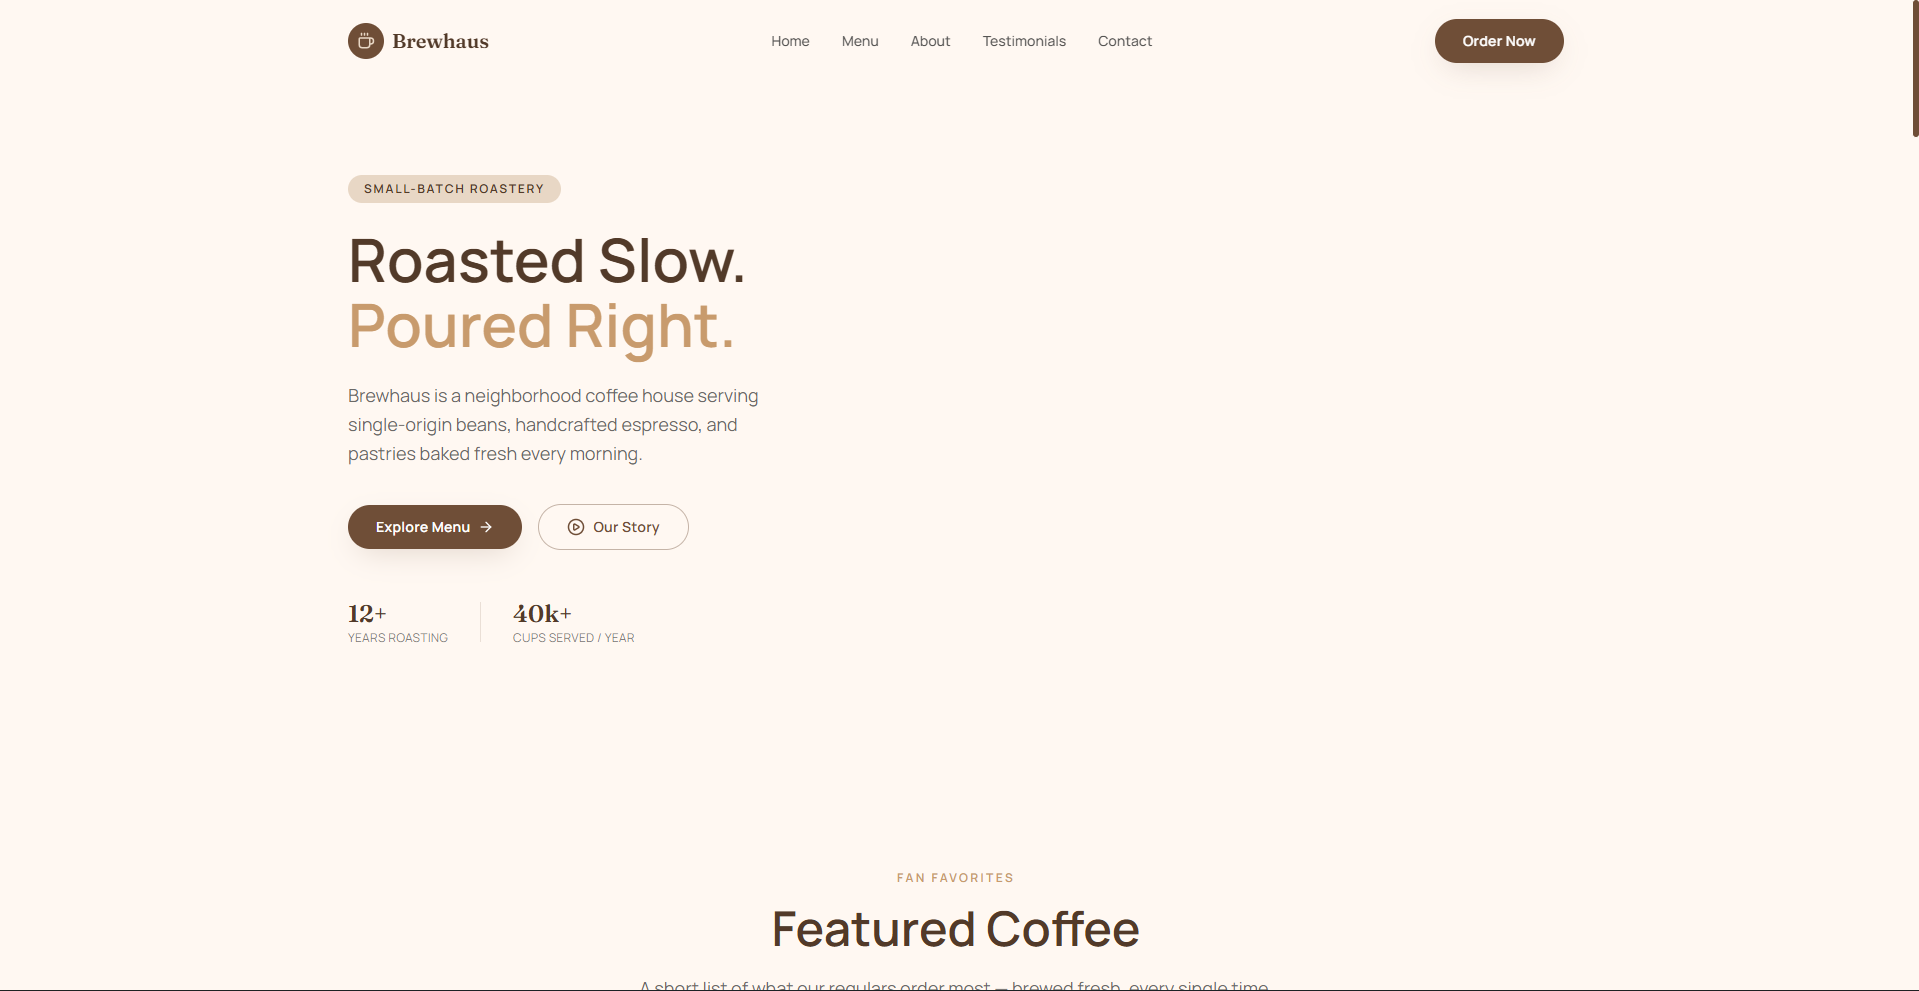
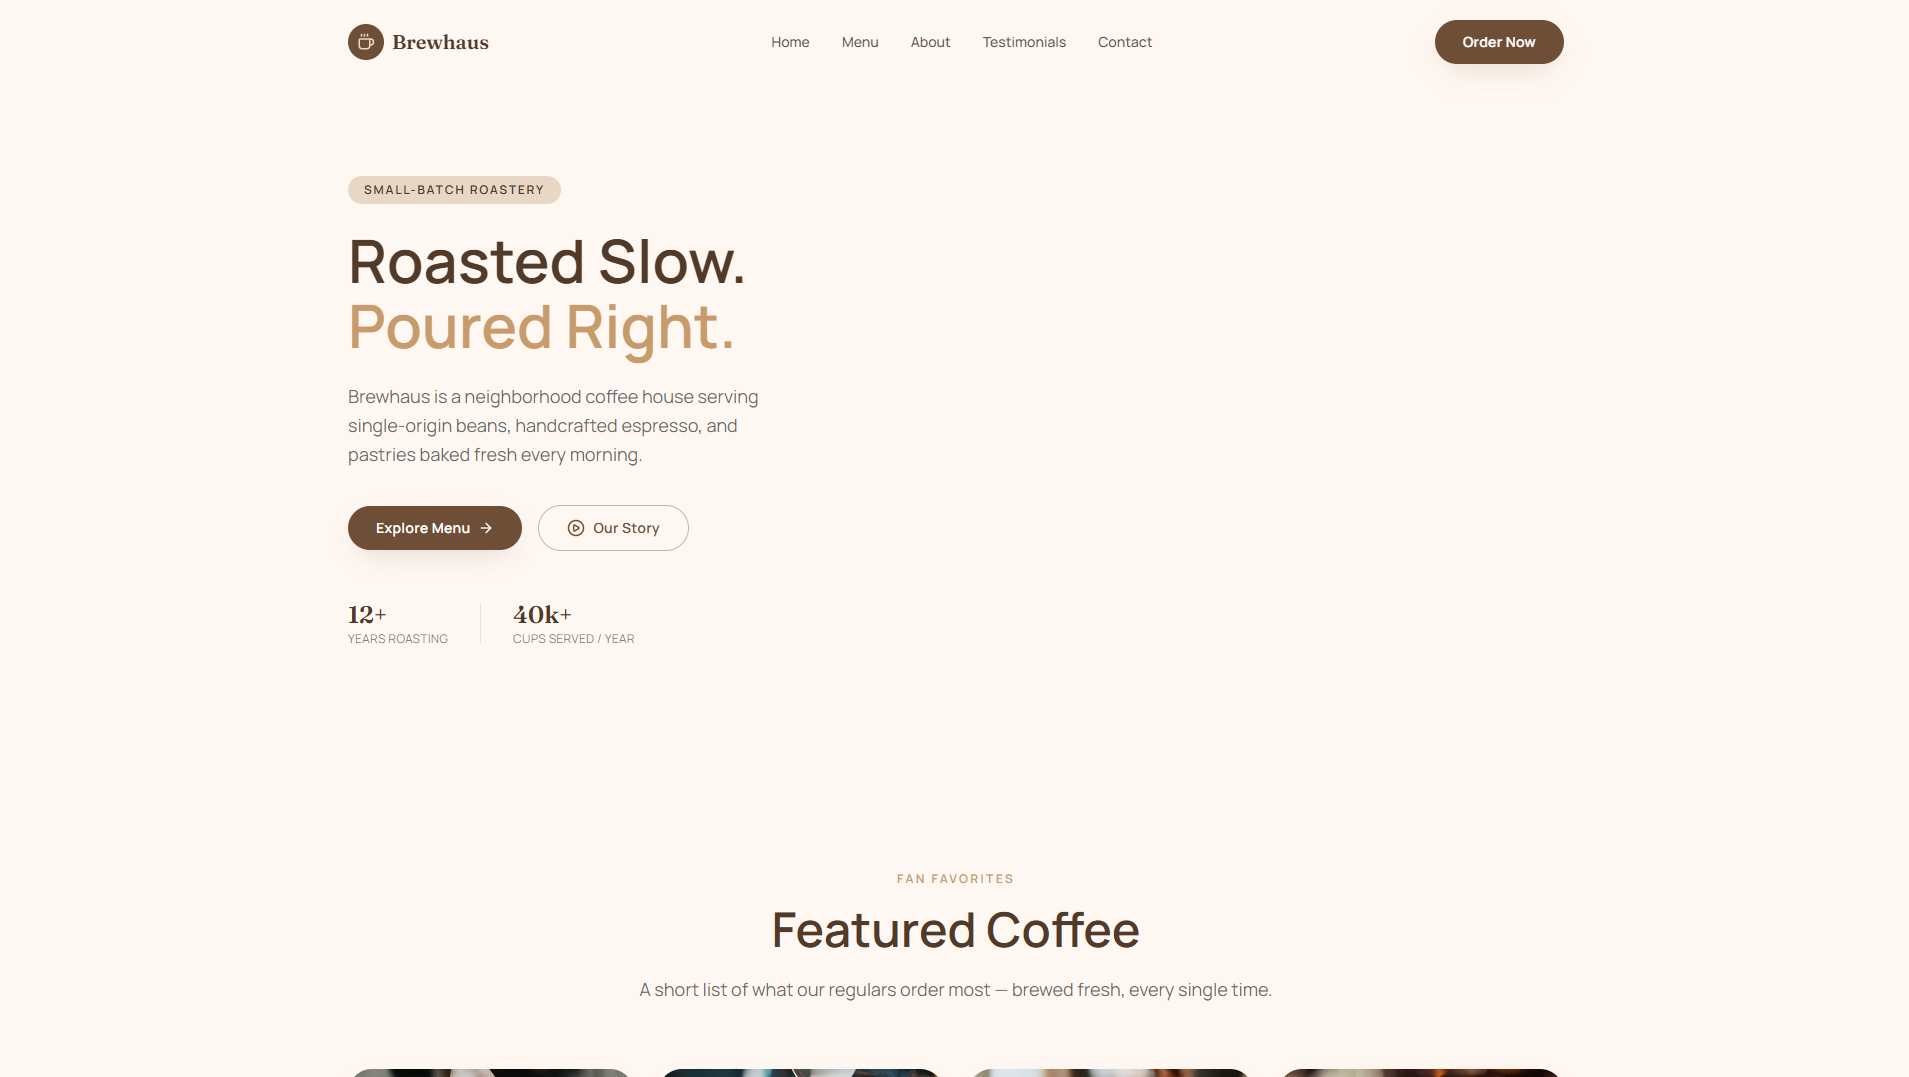
feat: add useScreenWidth hook

diff --git a/src/data/index.js b/src/data/index.js
@@ -21,6 +21,7 @@ import {
 
 import brewhaus from "../assets/screenShots/brewhausScreenshot.png";
 import ironforge from "../assets/screenShots/ironforgeScreenshot.png";
+import quartier from "../assets/screenShots/quartierScreenshot.png";
 
 // ---- Replace these with your real details ----
 export const PROFILE = {
@@ -113,28 +114,31 @@ export const TIMELINE = [
 // avoid filling this with placeholders; one honest case study beats several fake ones.
 export const PROJECTS = [
   {
-    title: "Brewhaus",
-    subtitle: "Premium Coffee Shop Landing Page",
+    title: "Quartier",
+    subtitle: "A refined café experience in the heart of London.",
     tag: "Frontend",
     tags: ["React", "Tailwind CSS", "JavaScript"],
-    description:
-      "A premium coffee shop landing page built with React and Tailwind CSS, featuring reusable components, responsive layouts, interactive menu filtering, and modern UI/UX design.",
-    gradient: "from-[#fff8f2] to-[#6f4e37]",
-    screenShot: brewhaus,
-    demo: "https://brewhaus-iota.vercel.app/",
-    github: "https://github.com/said-hadji/Brewhaus",
+    screenShot: quartier,
+    demo: "https://quartier-cafe.vercel.app/",
+    github: "https://github.com/said-hadji/quartier-cafe",
   },
   {
     title: "IronForge",
     subtitle: "Premium Gym Landing Page",
     tag: "Frontend",
     tags: ["React", "Tailwind CSS", "JavaScript"],
-    description:
-      "A modern, responsive gym landing page built with React and Tailwind CSS. Features smooth animations with Framer Motion, an interactive BMI calculator with healthy BMI ranges, reusable components, and a clean premium UI focused on performance and user experience.",
-    gradient: "from-[#0b0b0b] via-zinc-900 to-orange-500/30",
     screenShot: ironforge,
     demo: "https://ironforge-gym-rose.vercel.app/",
     github: "https://github.com/said-hadji/ironforge-gym",
+  },
+  {
+    title: "Brewhaus",
+    subtitle: "Premium Coffee Shop Landing Page",
+    tag: "Frontend",
+    tags: ["React", "Tailwind CSS", "JavaScript"],
+    screenShot: brewhaus,
+    demo: "https://brewhaus-iota.vercel.app/",
+    github: "https://github.com/said-hadji/Brewhaus",
   },
 ];
 

diff --git a/src/components/ProjectCard.jsx b/src/components/ProjectCard.jsx
@@ -25,6 +25,8 @@ function GithubLink({ href, className = "" }) {
   );
 }
 
+console.log(window.innerWidth)
+
 function DesktopLayout({
   handleMouseMove,
   handleMouseLeave,
@@ -58,12 +60,13 @@ function CompactLayout({ project }) {
 
   return (
     <div
-      className={`w-92 md:w-120 lg:w-150 shrink-0 transition-colors duration-300`}
+      style={{width: window.innerWidth - 50}}
+      className={`shrink-0 transition-colors duration-300`}
     >
       <h3 className="text-2xl text-white font-medium mb-4">{title}</h3>
 
       <div
-        className={`bg-white/5 backdrop-blur-2xl border border-white/10 rounded-2xl p-1 mb-4`}
+        className={`h-53 bg-white/5 backdrop-blur-2xl border border-white/10 rounded-2xl p-1 mb-4 overflow-hidden`}
       >
         <div className={`overflow-hidden rounded-xl`}>
           <img src={screenShot} alt="" />

diff --git a/src/hooks/useScreenWidth.js b/src/hooks/useScreenWidth.js
@@ -1,0 +1,16 @@
+import { useState, useEffect } from "react";
+
+export function useScreenWidth() {
+  const [screenWidth, setScreenWidth] = useState(window.innerWidth);
+
+  useEffect(() => {
+    const handleResize = () => {
+      setScreenWidth(window.innerWidth);
+    };
+
+    window.addEventListener("resize", handleResize);
+    return () => window.removeEventListener("resize", handleResize);
+  }, []);
+
+  return screenWidth;
+}
